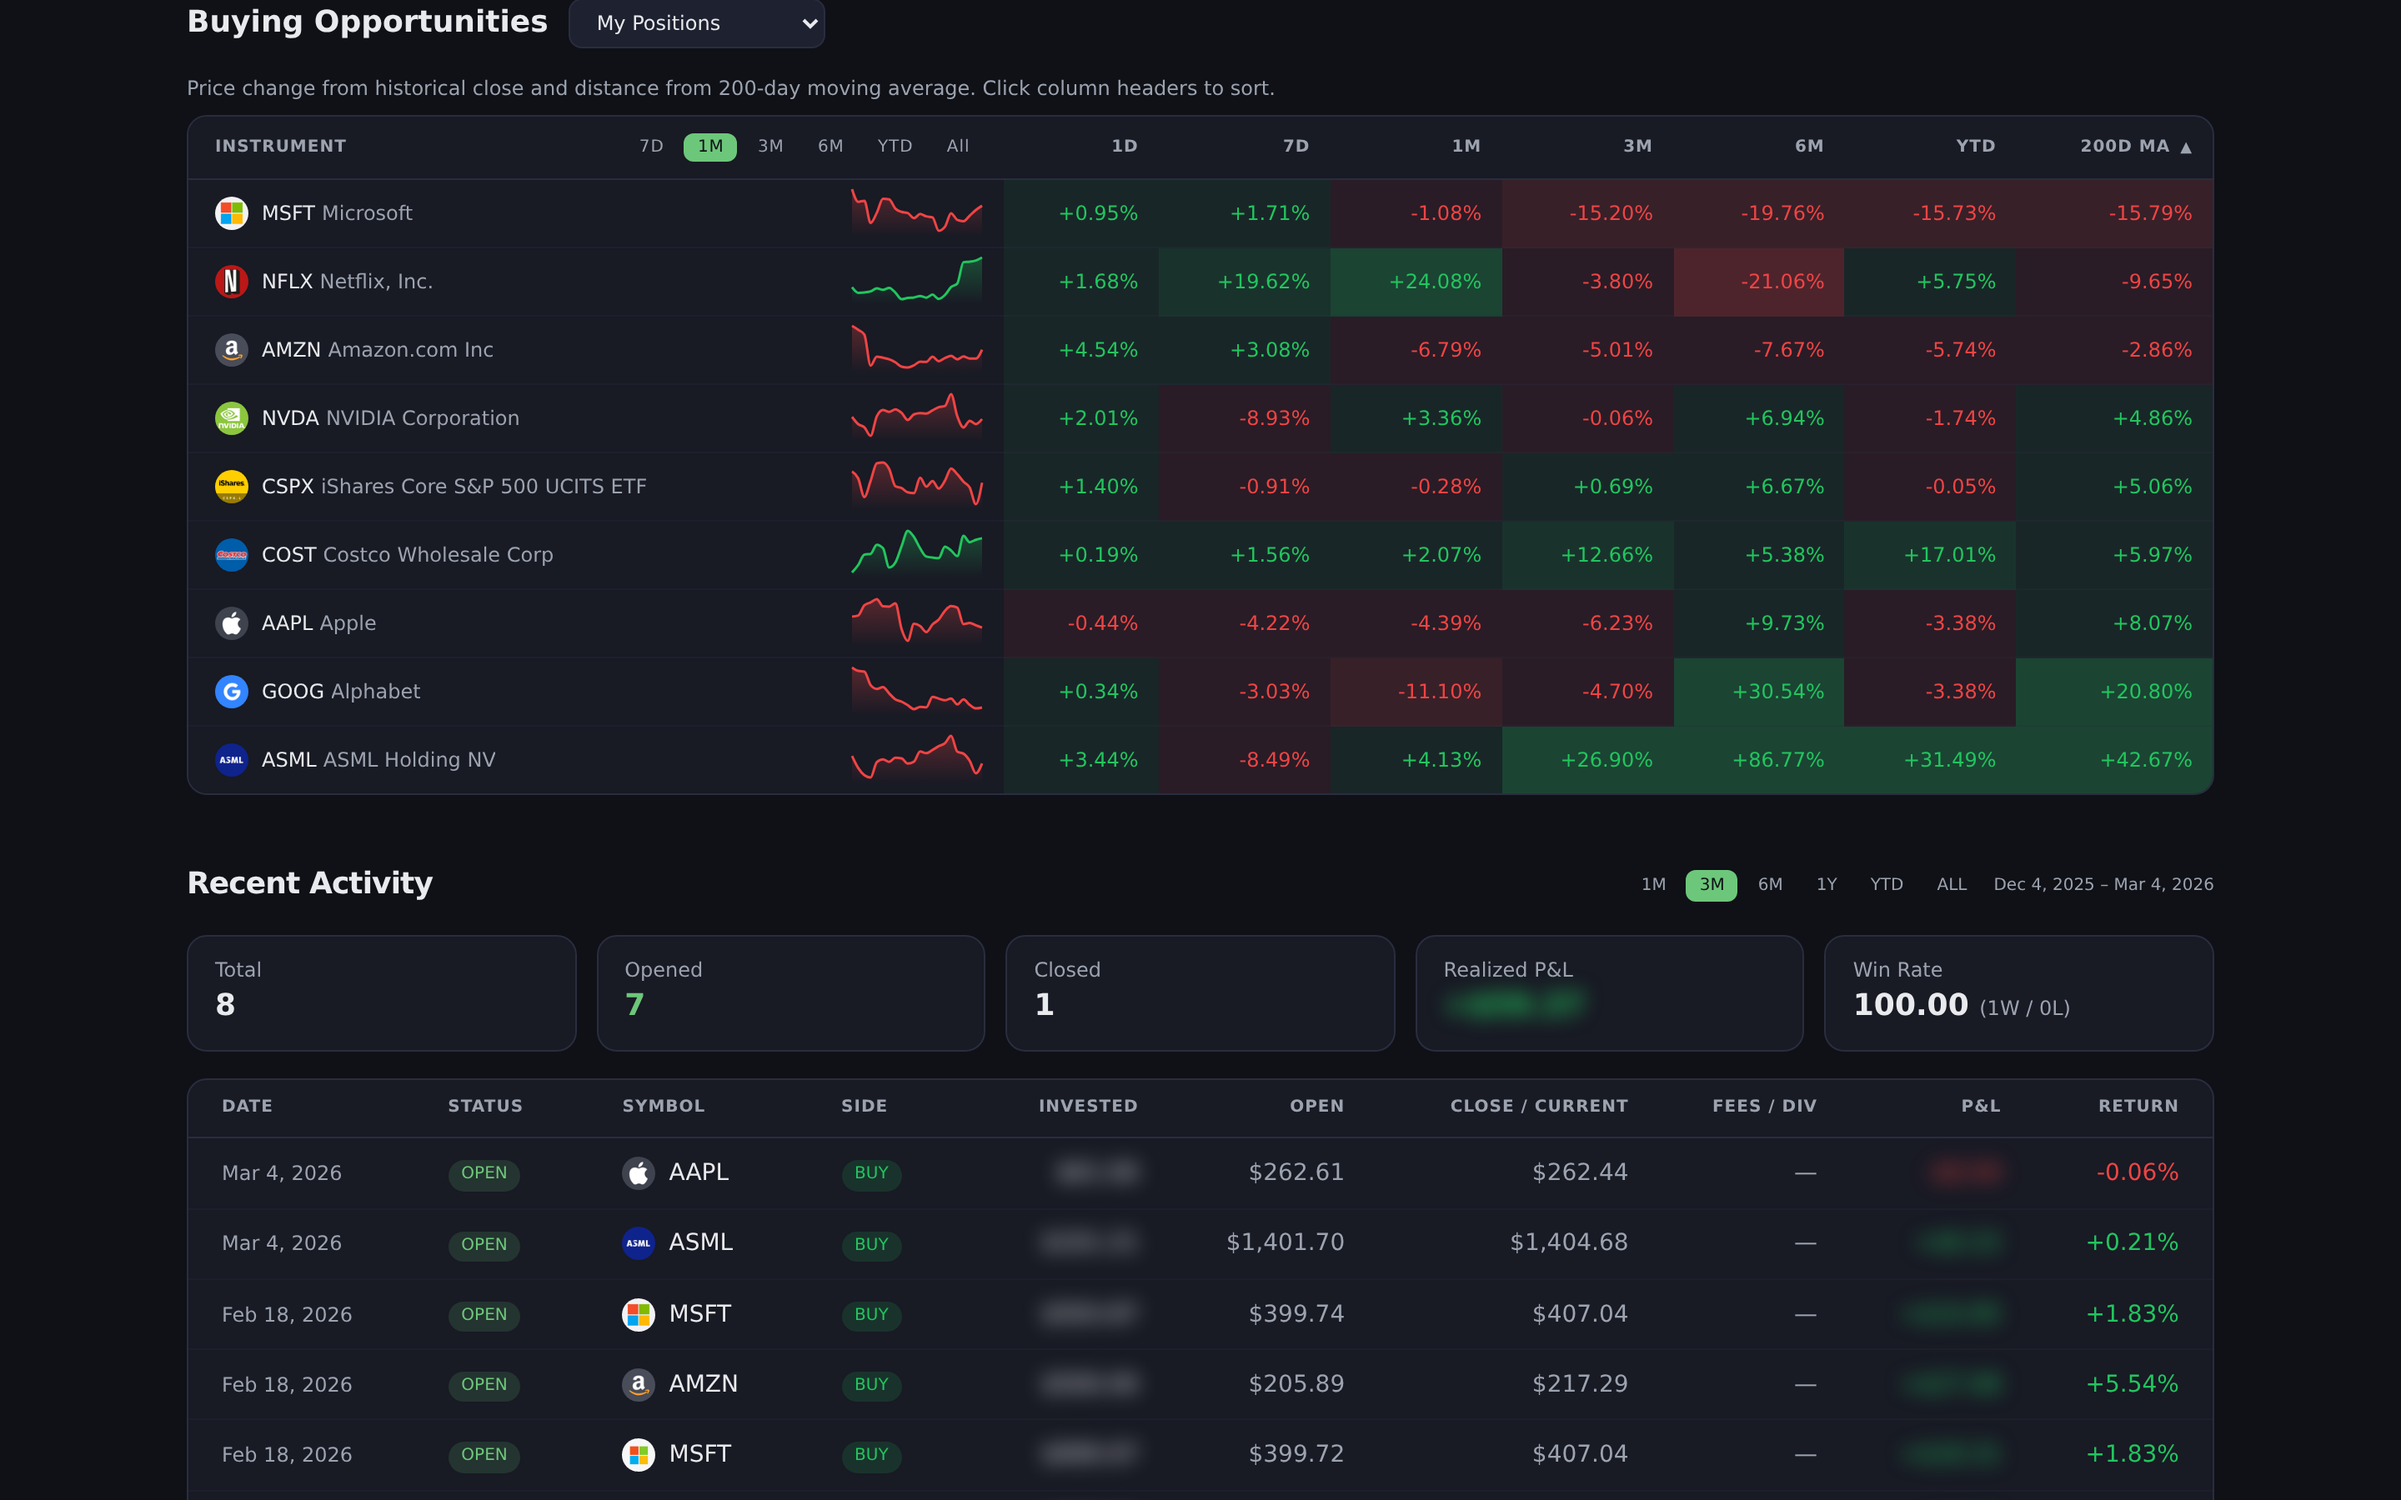
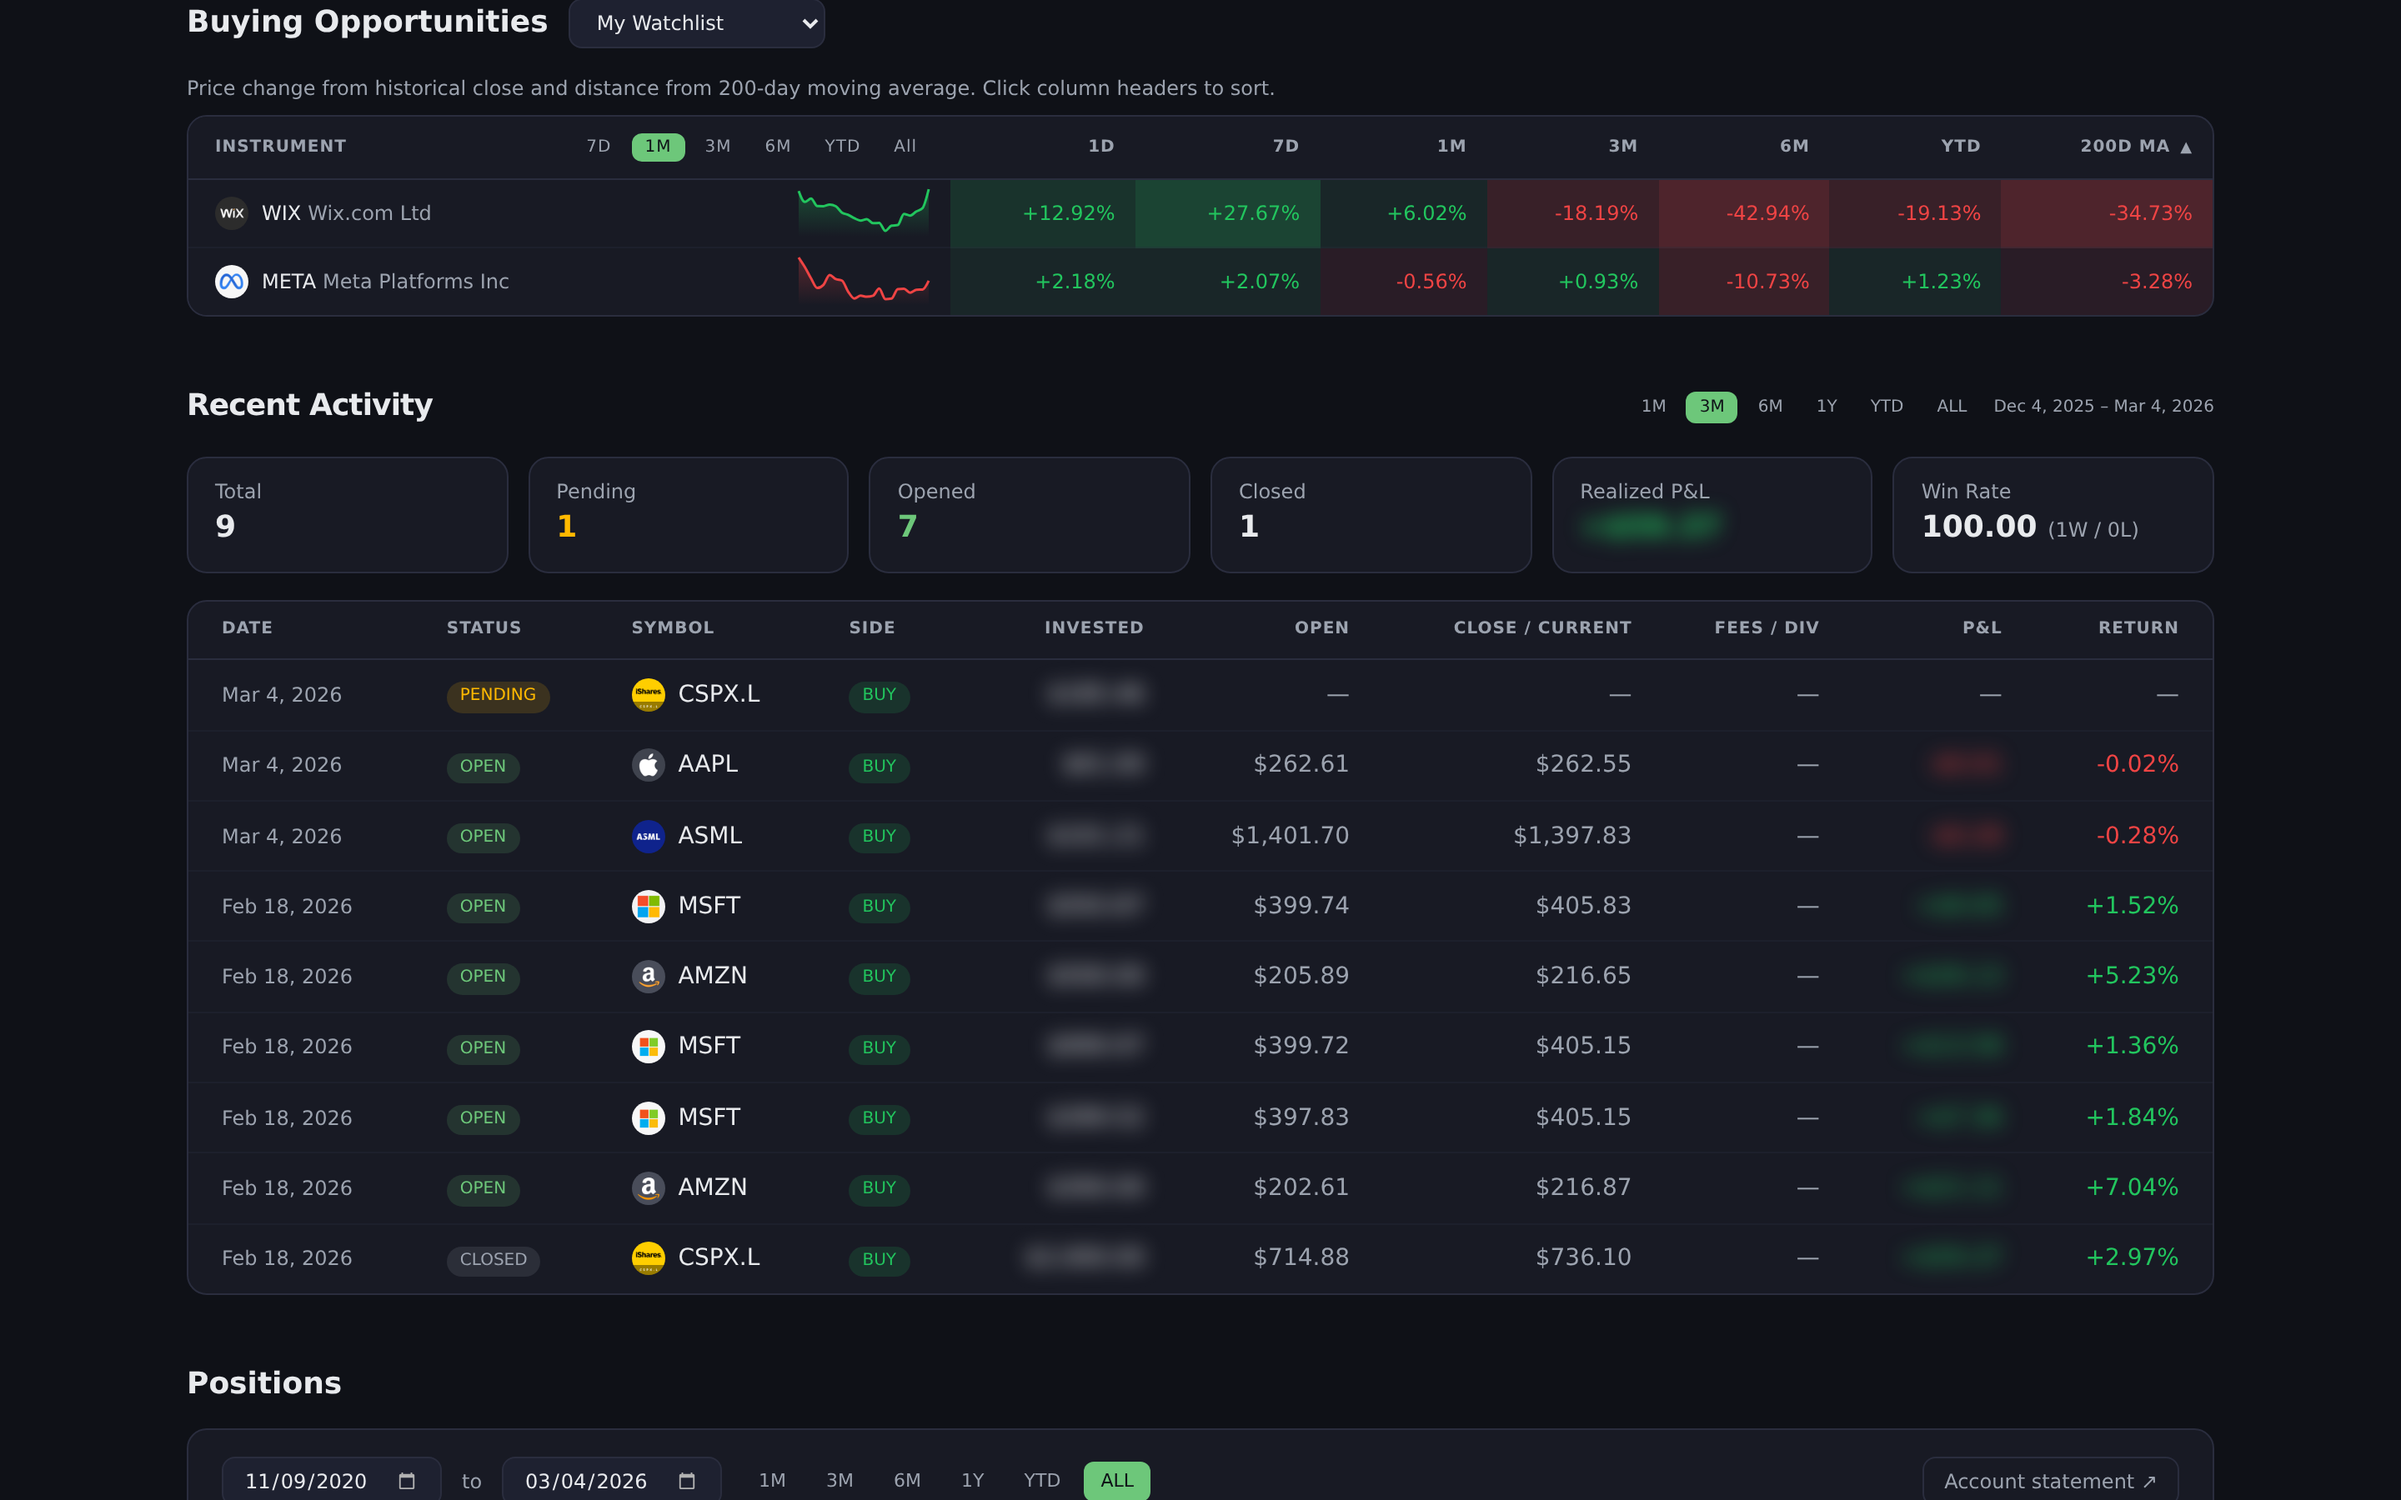
Update portfolio handling and enhance UI for pending orders

diff --git a/src/lib/components/RecentTrades.svelte b/src/lib/components/RecentTrades.svelte
@@ -1,5 +1,9 @@
 <script lang="ts">
-  import type { EnrichedTrade, EnrichedPosition } from "$lib/etoro-api";
+  import type {
+    EnrichedTrade,
+    EnrichedPosition,
+    EnrichedPendingOrder,
+  } from "$lib/etoro-api";
   import {
     percent as pctFmt,
     shortDate as dateFmt,
@@ -14,11 +18,17 @@
   let {
     trades,
     positions,
-  }: { trades: EnrichedTrade[]; positions: EnrichedPosition[] } = $props();
+    pendingOrders = [],
+  }: {
+    trades: EnrichedTrade[];
+    positions: EnrichedPosition[];
+    pendingOrders?: EnrichedPendingOrder[];
+  } = $props();
 
   type UnifiedRow = {
     id: number;
-    status: "open" | "closed";
+    status: "open" | "closed" | "pending";
+    orderType?: "market" | "limit";
     date: string;
     symbol: string;
     logoUrl?: string;
@@ -63,8 +73,27 @@
       pnlPercent: p.pnlPercent,
     }));
 
-    return [...closedRows, ...openRows].sort(
-      (a, b) => new Date(b.date).getTime() - new Date(a.date).getTime(),
+    const pendingRows: UnifiedRow[] = pendingOrders.map((o) => ({
+      id: o.orderId,
+      status: "pending" as const,
+      orderType: o.type,
+      date: o.dateCreated || new Date().toISOString(),
+      symbol: o.symbol ? normalizeSymbol(o.symbol) : `#${o.instrumentId}`,
+      logoUrl: o.logoUrl,
+      isBuy: o.isBuy,
+      invested: o.amount,
+      openRate: 0,
+      fees: 0,
+      pnl: undefined,
+      pnlPercent: undefined,
+    }));
+
+    return [...pendingRows, ...closedRows, ...openRows].sort(
+      (a, b) => {
+        if (a.status === "pending" && b.status !== "pending") return -1;
+        if (a.status !== "pending" && b.status === "pending") return 1;
+        return new Date(b.date).getTime() - new Date(a.date).getTime();
+      },
     );
   });
 
@@ -107,6 +136,7 @@
     });
   });
 
+  const pendingRows = $derived(rows.filter((r) => r.status === "pending"));
   const closedRows = $derived(rows.filter((r) => r.status === "closed"));
   const openRows = $derived(rows.filter((r) => r.status === "open"));
   const closedProfit = $derived(
@@ -141,11 +171,17 @@
       </p>
     </div>
   {:else}
-    <div class="mb-4 grid grid-cols-2 gap-3 sm:grid-cols-5">
+    <div class="mb-4 grid grid-cols-2 gap-3 {pendingRows.length > 0 ? 'sm:grid-cols-6' : 'sm:grid-cols-5'}">
       <div class="rounded-xl border border-border bg-surface-raised px-4 py-3">
         <p class="text-xs text-text-secondary">Total</p>
         <p class="text-lg font-semibold">{rows.length}</p>
       </div>
+      {#if pendingRows.length > 0}
+        <div class="rounded-xl border border-border bg-surface-raised px-4 py-3">
+          <p class="text-xs text-text-secondary">Pending</p>
+          <p class="text-lg font-semibold text-amber-400">{pendingRows.length}</p>
+        </div>
+      {/if}
       <div class="rounded-xl border border-border bg-surface-raised px-4 py-3">
         <p class="text-xs text-text-secondary">Opened</p>
         <p class="text-lg font-semibold text-brand">{openRows.length}</p>
@@ -205,7 +241,13 @@
                   {dateFmt.format(new Date(row.date))}
                 </td>
                 <td class="px-3 py-2.5">
-                  {#if row.status === "open"}
+                  {#if row.status === "pending"}
+                    <span
+                      class="inline-flex rounded-full bg-amber-400/15 px-2 py-0.5 text-[10px] font-medium text-amber-400"
+                    >
+                      {row.orderType === "limit" ? "LIMIT" : "PENDING"}
+                    </span>
+                  {:else if row.status === "open"}
                     <span
                       class="inline-flex rounded-full bg-brand/15 px-2 py-0.5 text-[10px] font-medium text-brand"
                     >
@@ -251,12 +293,19 @@
                 >
                 <td
                   class="px-3 py-2.5 text-right tabular-nums text-text-secondary"
-                  ><Money value={row.openRate} public /></td
                 >
+                  {#if row.status === "pending"}
+                    <span class="text-text-secondary">—</span>
+                  {:else}
+                    <Money value={row.openRate} public />
+                  {/if}
+                </td>
                 <td
                   class="px-3 py-2.5 text-right tabular-nums text-text-secondary"
                 >
-                  {#if row.status === "closed" && row.closeRate !== undefined}
+                  {#if row.status === "pending"}
+                    <span class="text-text-secondary">—</span>
+                  {:else if row.status === "closed" && row.closeRate !== undefined}
                     <Money value={row.closeRate} public />
                   {:else if row.currentRate !== undefined}
                     <Money value={row.currentRate} public />
@@ -265,7 +314,9 @@
                   {/if}
                 </td>
                 <td class="px-3 py-2.5 text-right tabular-nums">
-                  {#if row.fees !== 0}
+                  {#if row.status === "pending"}
+                    <span class="text-text-secondary">—</span>
+                  {:else if row.fees !== 0}
                     <Money
                       value={row.fees}
                       abs
@@ -281,20 +332,24 @@
                   {/if}
                 </td>
                 <td class="px-3 py-2.5 text-right tabular-nums font-medium">
-                  {#if row.pnl !== undefined}
+                  {#if row.status === "pending"}
+                    <span class="text-text-secondary">—</span>
+                  {:else if row.pnl !== undefined}
                     <Money value={row.pnl} showSign />
                   {:else}
                     <span class={pnlColor(row.pnl)}>—</span>
                   {/if}
                 </td>
                 <td
-                  class="py-2.5 pl-3 pr-5 text-right tabular-nums {pnlColor(
-                    row.pnlPercent,
-                  )}"
+                  class="py-2.5 pl-3 pr-5 text-right tabular-nums {row.status === 'pending' ? 'text-text-secondary' : pnlColor(row.pnlPercent)}"
                 >
-                  {row.pnlPercent !== undefined
-                    ? `${pnlSign(row.pnlPercent)}${pctFmt.format(row.pnlPercent)}%`
-                    : "—"}
+                  {#if row.status === "pending"}
+                    —
+                  {:else}
+                    {row.pnlPercent !== undefined
+                      ? `${pnlSign(row.pnlPercent)}${pctFmt.format(row.pnlPercent)}%`
+                      : "—"}
+                  {/if}
                 </td>
               </tr>
             {/each}

diff --git a/src/lib/etoro-api.ts b/src/lib/etoro-api.ts
@@ -50,8 +50,25 @@ const PositionSchema = z.record(z.string(), z.unknown()).transform((raw) => ({
 const PendingOrderSchema = z
   .record(z.string(), z.unknown())
   .transform((raw) => ({
+    orderId: pick<number>(
+      raw,
+      ["orderID", "orderId", "OrderID", "OrderId"],
+      0,
+    ),
+    instrumentId: pick<number>(
+      raw,
+      ["instrumentID", "instrumentId", "InstrumentID", "InstrumentId"],
+      0,
+    ),
     amount: pick<number>(raw, ["amount", "Amount"], 0),
+    isBuy: pick<boolean>(raw, ["isBuy", "IsBuy"], true),
+    leverage: pick<number>(raw, ["leverage", "Leverage"], 1),
     mirrorId: pick<number>(raw, ["mirrorID", "mirrorId", "MirrorID"], 0),
+    dateCreated: pick<string>(
+      raw,
+      ["dateCreated", "DateCreated", "dateModified", "DateModified"],
+      "",
+    ),
   }));
 
 const PortfolioResponseSchema = z
@@ -153,6 +170,7 @@ const CandleSchema = z.record(z.string(), z.unknown()).transform((raw) => ({
 // --- Types ---
 
 export type Position = z.output<typeof PositionSchema>;
+export type PendingOrder = z.output<typeof PendingOrderSchema>;
 export type Instrument = z.output<typeof InstrumentSchema>;
 export type Rate = z.output<typeof RateSchema>;
 export type Trade = z.output<typeof TradeSchema>;
@@ -184,8 +202,16 @@ export type EnrichedTrade = Trade & {
   logoUrl?: string;
 };
 
+export type EnrichedPendingOrder = PendingOrder & {
+  symbol?: string;
+  displayName?: string;
+  logoUrl?: string;
+  type: "market" | "limit";
+};
+
 export type PortfolioData = {
   positions: EnrichedPosition[];
+  pendingOrders: EnrichedPendingOrder[];
   credit: number;
   availableCash: number;
   totalInvested: number;
@@ -380,11 +406,29 @@ export async function fetchPortfolio(keys: ApiKeys): Promise<PortfolioData> {
   const pendingLimitOrders = orders.reduce((sum, o) => sum + o.amount, 0);
   const availableCash = credit - pendingManualOrders - pendingLimitOrders;
 
-  if (rawPositions.length === 0) {
-    return { positions: [], credit, availableCash, totalInvested: 0, totalPnl: 0 };
+  const allPending: EnrichedPendingOrder[] = [
+    ...ordersForOpen
+      .filter((o) => o.mirrorId === 0)
+      .map((o) => ({ ...o, type: "market" as const })),
+    ...orders.map((o) => ({ ...o, type: "limit" as const })),
+  ];
+
+  if (rawPositions.length === 0 && allPending.length === 0) {
+    return {
+      positions: [],
+      pendingOrders: [],
+      credit,
+      availableCash,
+      totalInvested: 0,
+      totalPnl: 0,
+    };
   }
 
-  const instrumentIds = [...new Set(rawPositions.map((p) => p.instrumentId))];
+  const positionInstrumentIds = rawPositions.map((p) => p.instrumentId);
+  const pendingInstrumentIds = allPending.map((o) => o.instrumentId);
+  const instrumentIds = [
+    ...new Set([...positionInstrumentIds, ...pendingInstrumentIds]),
+  ];
 
   const [instruments, rates] = await Promise.all([
     fetchInstruments(keys, instrumentIds),
@@ -396,7 +440,19 @@ export async function fetchPortfolio(keys: ApiKeys): Promise<PortfolioData> {
     instruments,
     rates,
   );
-  return { positions, credit, availableCash, totalInvested, totalPnl };
+
+  const instrumentMap = new Map(instruments.map((i) => [i.instrumentId, i]));
+  const pendingOrders: EnrichedPendingOrder[] = allPending.map((o) => {
+    const info = instrumentMap.get(o.instrumentId);
+    return {
+      ...o,
+      symbol: info?.symbol,
+      displayName: info?.displayName,
+      logoUrl: info?.logoUrl,
+    };
+  });
+
+  return { positions, pendingOrders, credit, availableCash, totalInvested, totalPnl };
 }
 
 export async function fetchTradeHistory(

diff --git a/src/lib/client-api.svelte.ts b/src/lib/client-api.svelte.ts
@@ -121,10 +121,13 @@ function writeLastLoaded(date: Date | null) {
 export function createClientApi() {
   const hasApiKeys = readKeys() !== null;
   const rawCached = hasApiKeys ? portfolioCache.get() : null;
-  const cachedPortfolio =
-    rawCached && rawCached.availableCash == null
-      ? { ...rawCached, availableCash: rawCached.credit }
-      : rawCached;
+  const cachedPortfolio = rawCached
+    ? {
+        ...rawCached,
+        availableCash: rawCached.availableCash ?? rawCached.credit,
+        pendingOrders: rawCached.pendingOrders ?? [],
+      }
+    : null;
   const cachedTrades = hasApiKeys ? tradesCache.get() : null;
 
   let keys = $state<ApiKeys | null>(readKeys());

diff --git a/src/routes/+page.server.ts b/src/routes/+page.server.ts
@@ -20,7 +20,7 @@ export const load: PageServerLoad = async () => {
   } catch (e) {
     const message = e instanceof Error ? e.message : "Failed to load portfolio";
     return {
-      portfolio: { positions: [], credit: 0, availableCash: 0, totalInvested: 0, totalPnl: 0 },
+      portfolio: { positions: [], pendingOrders: [], credit: 0, availableCash: 0, totalInvested: 0, totalPnl: 0 },
       recentTrades: [],
       error: message,
       needsKeys: false,

diff --git a/src/routes/+page.svelte b/src/routes/+page.svelte
@@ -127,7 +127,7 @@
       watchlistLoading={client.watchlistLoading}
       onSourceChange={client.setOpportunitySource}
     />
-    <RecentTrades {trades} positions={portfolio.positions} />
+    <RecentTrades {trades} positions={portfolio.positions} pendingOrders={portfolio.pendingOrders} />
     <PositionsTable positions={portfolio.positions} {candleMap} />
     <ChartsDashboard
       positions={portfolio.positions}
